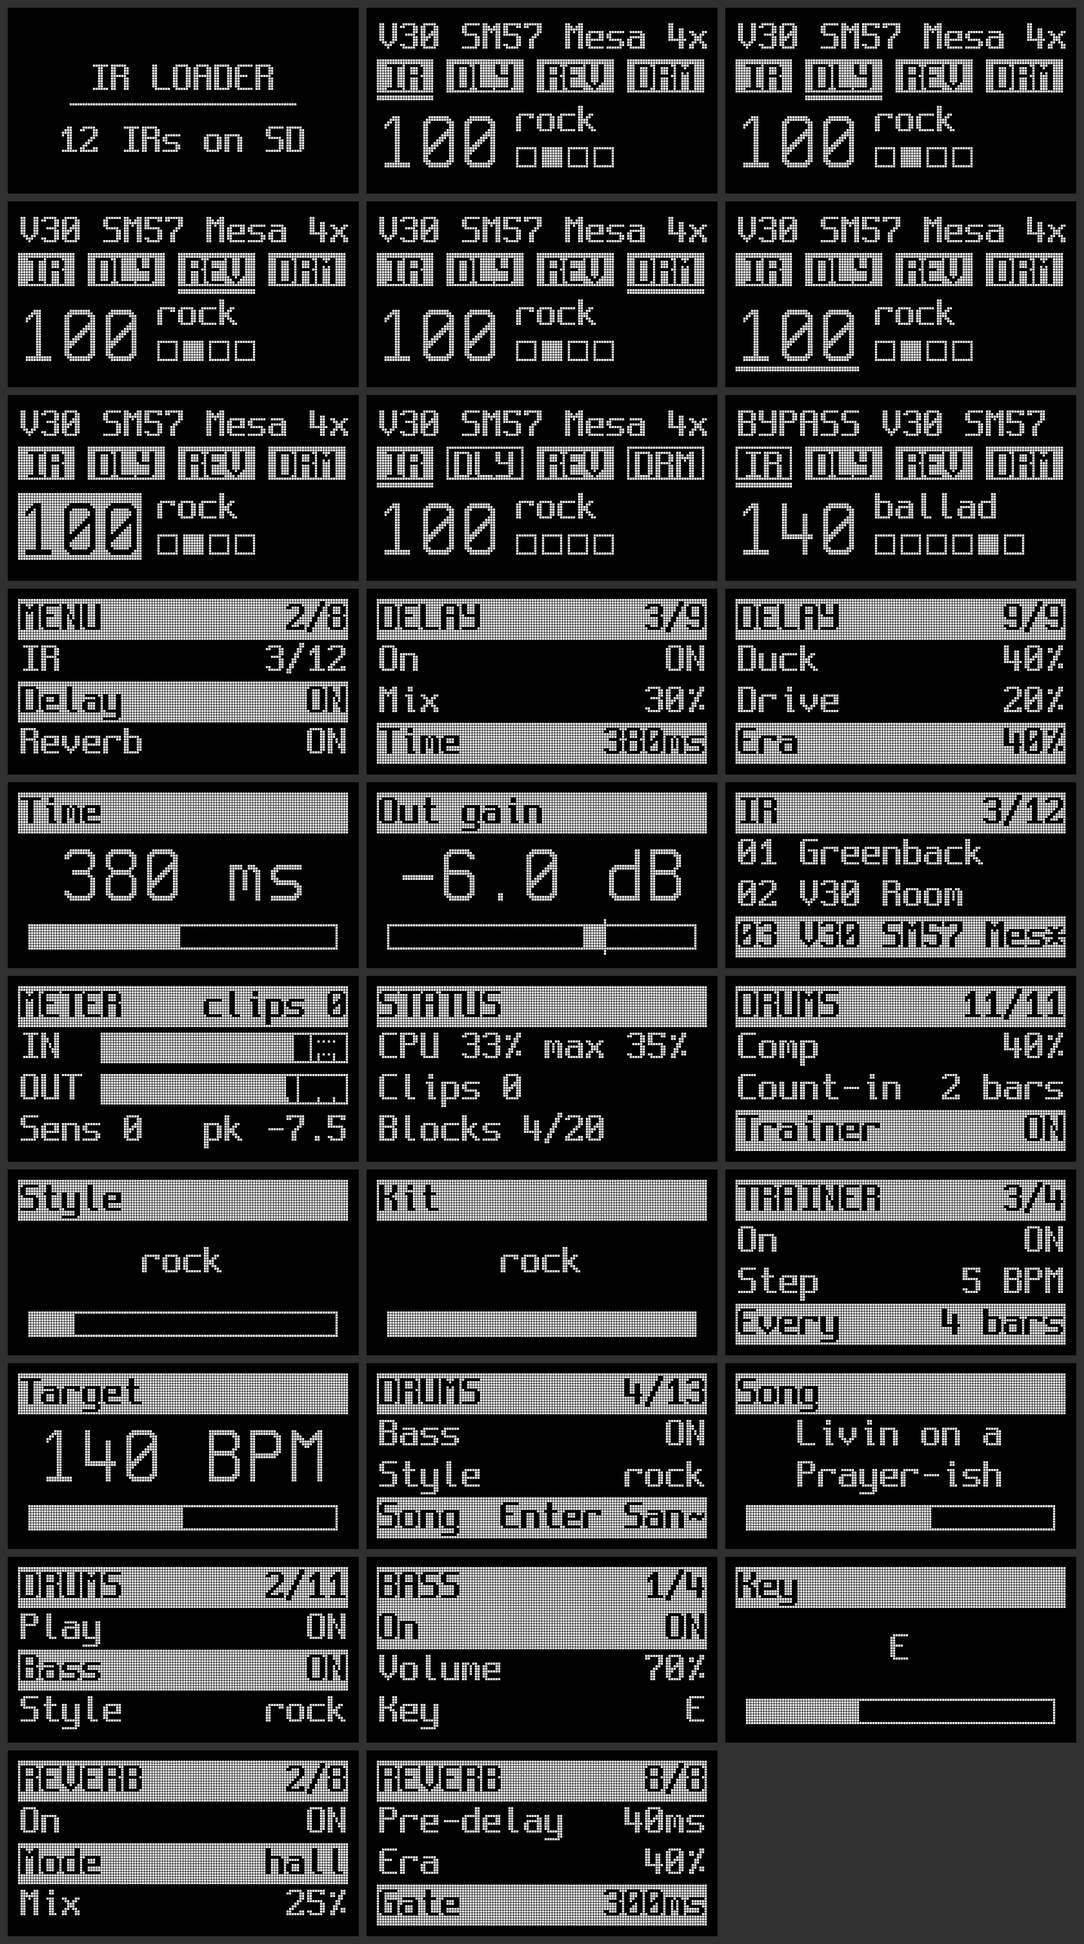
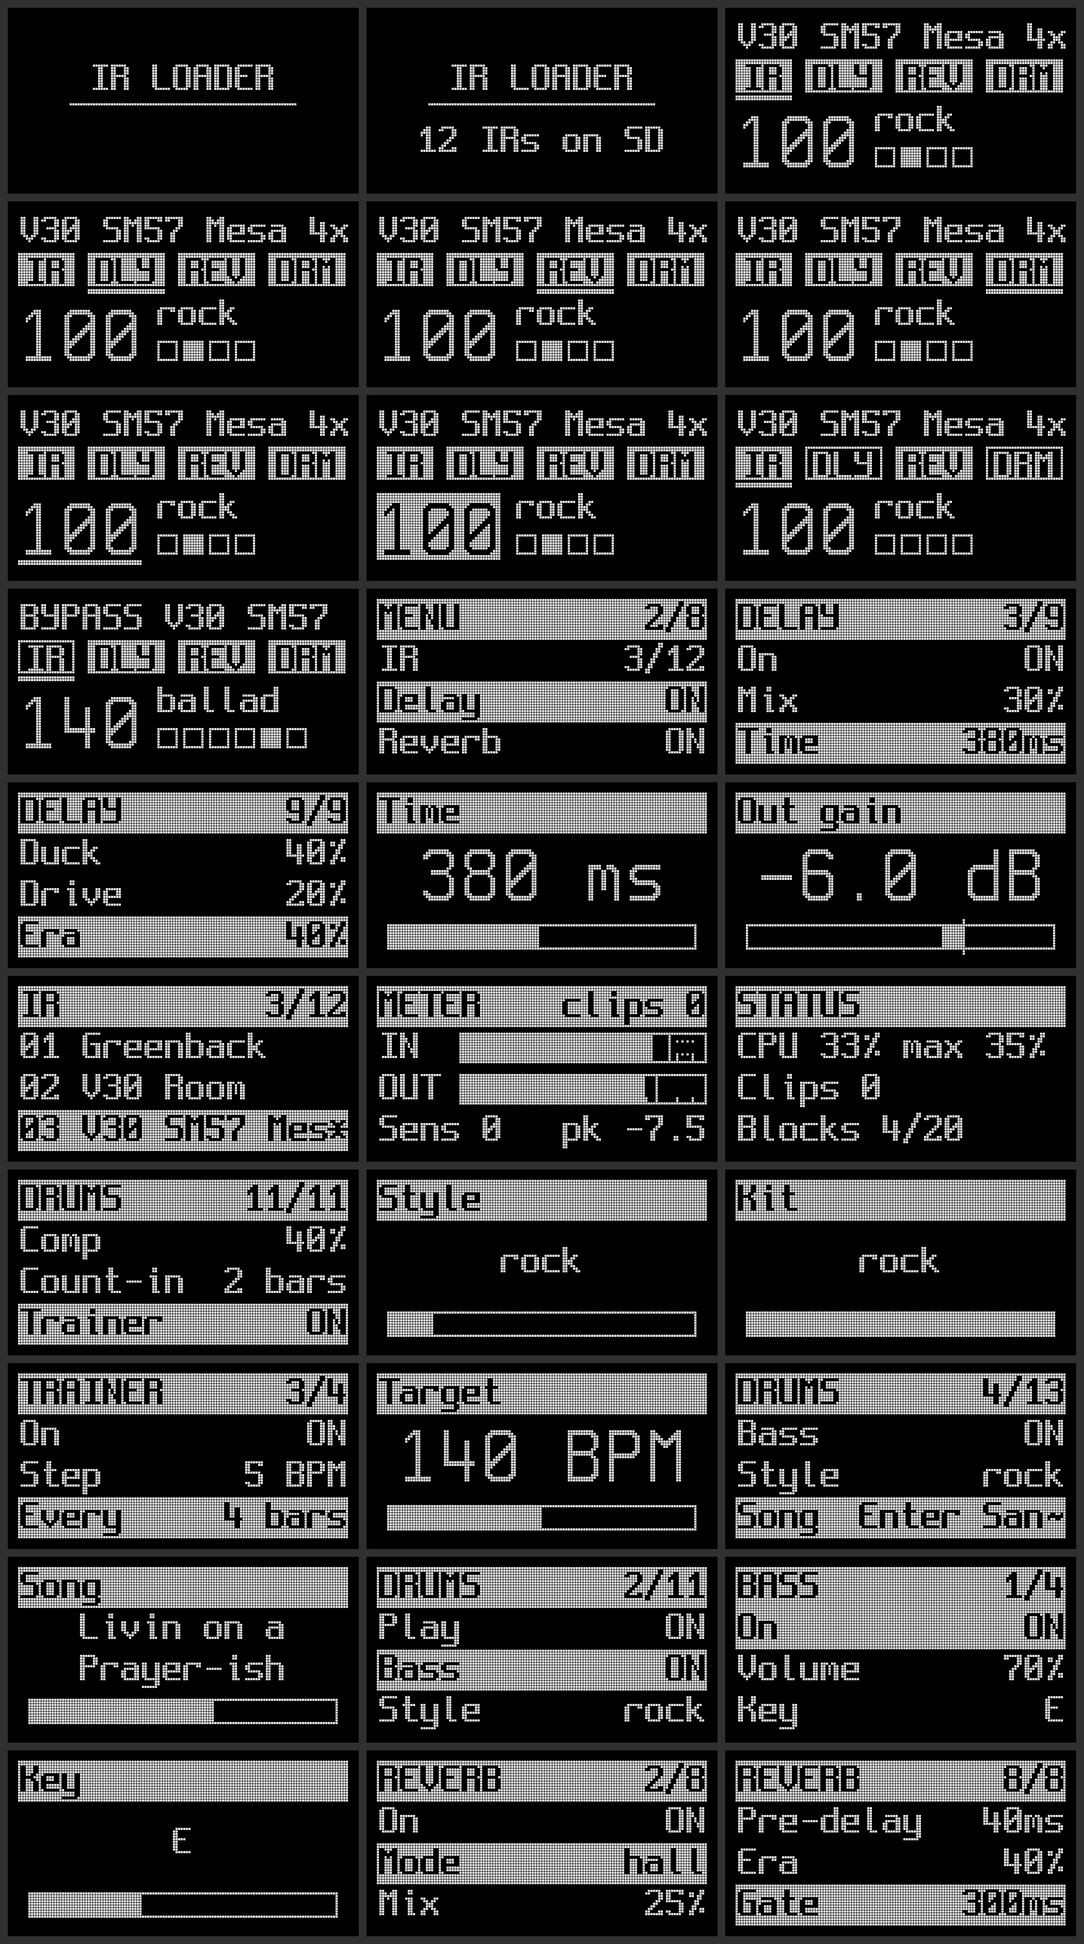
OLED on its own I2C bus (Wire1); splash first, no serial waits at boot
- The display moves to Wire1 (SCL1 16, SDA1 17) at 1 MHz (OLED_WIRE and
  OLED_I2C_HZ in config.h). A page takes ~1.3 ms instead of 3.3 ms, and
  the codec's bus is no longer shared.
- setup() shows the splash first, before the codec's 0.4 s power-up, and
  fills in the IR count once the SD card has been read
  (displayBootDone). The splash timer starts at power-on.
- No Serial.begin(): on the Teensy it waits up to 2 s for a monitor to
  open the port (0.75 s on a charger), on top of the 1.5 s wait that was
  in setup(). USB serial works without it.

Measured from a cold plug-in: setup() done at 0.99 s instead of 2.99 s.
The splash appears at ~0.4 s, the home screen at 1.5 s (was ~4.5 s).

diff --git a/src/main.cpp b/src/main.cpp
@@ -1,8 +1,8 @@
 // Teensy 4.0 + Audio Shield guitar IR loader
 //
-//   tube amp line out -> shield LINE IN (L) -> convolution -> ping-pong delay
-//                     -> plate reverb -> LINE OUT L/R + headphones
-//                     (32-bit float throughout)
+//   tube amp line out -> shield LINE IN (L) -> convolution -> studio 80s delay
+//                     -> 80s reverb -> LINE OUT L/R + headphones
+//                     (32-bit float throughout; drums and bass added after)
 //
 // Copy .wav impulse responses to the SD card (root or /IR folder). Any sample
 // rate, mono or stereo, 8/16/24/32-bit PCM or 32/64-bit float; files are
@@ -11,12 +11,14 @@
 // Control: USB serial (type "?" for help) and the OLED + encoder panel
 // (DISPLAY.md, pins in config.h).
 //
-//   AudioGraph  audio objects, codec, level/bypass/effect setters
+//   AudioGraph  audio objects and the codec
+//   Params      reading and changing any setting (the table: ParamDefs.cpp)
+//   Settings    the settings saved in EEPROM
 //   IRLibrary   SD card file list and IR loading
-//   Settings    EEPROM-backed settings
+//   DrumSongs   the drum songs, built-in and from the SD card
 //   SerialUI    serial commands and level meter
 //   Controls    the panel's encoder and keys
-//   Oled        SSD1306 driver on the codec's I2C bus
+//   Oled        SH1106 / SSD1306 driver on its own I2C bus
 //   DisplayUI   the panel: lib/oledui's screens and menu on the OLED
 #include <Arduino.h>
 
@@ -30,25 +32,27 @@
 #include "Settings.h"
 #include "config.h"
 
+
 void setup() {
   controlsBegin();
   loadSettings();
-
-  // Audio first: the passthrough starts immediately, even before the IR loads.
+  // The splash first (the display has its own I2C bus), then the audio: the
+  // passthrough starts there, even before the IR loads.
+  displayBegin();
   audioBegin();
 
-  Serial.begin(115200);
-  uint32_t t = millis();
-  while (!Serial && millis() - t < 1500) {}
-  Serial.printf("\nTeensy IR loader - block %d samples, max IR %d samples\n",
+  // No Serial.begin(): USB serial works without it on the Teensy, and it
+  // waits up to 2 s for a serial monitor to open the port (0.75 s on a USB
+  // charger). So this line only shows if one is already open; every state
+  // can be printed later (?, s).
+  Serial.printf("\nTeensy IR loader - block %d samples, max IR %d samples. Type ? for the commands.\n",
                 AUDIO_BLOCK_SAMPLES, IR_MAX_LENGTH);
 
   scanCard();
   loadStartupIR();
   // The drum song saved last time (an SD file may have gone: then none).
   if (getParam(ui::kDrumSong) && !selectDrumSong(getParam(ui::kDrumSong), true)) setParam(ui::kDrumSong, 0);
-  printHelp();
-  displayBegin();
+  displayBootDone();
 }
 
 void loop() {

diff --git a/src/Oled.cpp b/src/Oled.cpp
@@ -9,21 +9,21 @@ static int g_addr = -1;
 
 // Commands go after a 0x00 control byte, display data after 0x40.
 static bool command(const uint8_t* c, int n) {
-  Wire.beginTransmission(g_addr);
-  Wire.write(0x00);
-  Wire.write(c, n);
-  return Wire.endTransmission() == 0;
+  OLED_WIRE.beginTransmission(g_addr);
+  OLED_WIRE.write(0x00);
+  OLED_WIRE.write(c, n);
+  return OLED_WIRE.endTransmission() == 0;
 }
 
 static bool probe(int addr) {
-  Wire.beginTransmission(addr);
-  return Wire.endTransmission() == 0;
+  OLED_WIRE.beginTransmission(addr);
+  return OLED_WIRE.endTransmission() == 0;
 }
 
 bool oledBegin() {
   if (OLED_I2C_ADDR < 0) return false;
-  // The SGTL5000 is rated for 400 kHz too; Wire starts at 100 kHz.
-  Wire.setClock(400000);
+  OLED_WIRE.begin();
+  OLED_WIRE.setClock(OLED_I2C_HZ);
   if (probe(OLED_I2C_ADDR)) g_addr = OLED_I2C_ADDR;
   else if (probe(0x3D)) g_addr = 0x3D;
   else return false;
@@ -78,10 +78,10 @@ bool oledBegin() {
   for (int p = 0; p < 8; p++) {
     const uint8_t addr[] = {(uint8_t)(0xB0 | p), 0x00, 0x10};
     command(addr, sizeof(addr));
-    Wire.beginTransmission(g_addr);
-    Wire.write(0x40);
-    Wire.write(zeros, OLED_SH1106 ? 132 : 128);
-    Wire.endTransmission();
+    OLED_WIRE.beginTransmission(g_addr);
+    OLED_WIRE.write(0x40);
+    OLED_WIRE.write(zeros, OLED_SH1106 ? 132 : 128);
+    OLED_WIRE.endTransmission();
   }
   // The SH1106 datasheet's power-on sequence wants 100 ms between switching
   // the DC-DC converter on and the display on.
@@ -101,9 +101,9 @@ void oledSendPage(int p, const uint8_t* data) {
   const uint8_t addr[] = {(uint8_t)(0xB0 | p), (uint8_t)(col & 0x0F), (uint8_t)(0x10 | (col >> 4))};
   command(addr, sizeof(addr));
   // 1 control byte + 128 data bytes fit the Teensy 4 Wire buffer (136).
-  Wire.beginTransmission(g_addr);
-  Wire.write(0x40);
-  Wire.write(data, 128);
-  Wire.endTransmission();
+  OLED_WIRE.beginTransmission(g_addr);
+  OLED_WIRE.write(0x40);
+  OLED_WIRE.write(data, 128);
+  OLED_WIRE.endTransmission();
 }
 

diff --git a/include/config.h b/include/config.h
@@ -62,10 +62,13 @@
 // ---------------------------------------------------------------------------
 #define SDCARD_CS_PIN 10  // SD slot on the Teensy 4 Audio Shield (Rev D)
 
-// OLED + encoder module (see DISPLAY.md): a 128x64 SH1106 or SSD1306 on the
-// codec's I2C bus (pins 18/19); the encoder and the keys switch to GND
-// (internal pull-ups). Other free pins with the audio shield fitted: 0, 1,
-// 14, 16, 17, 22 (15 is the shield's volume-pot pad, 6 its memory-chip CS).
+// OLED + encoder module (see DISPLAY.md): a 128x64 SH1106 or SSD1306 on its
+// own I2C bus, Wire1 (SCL1 pin 16, SDA1 pin 17), apart from the codec's
+// (Wire, pins 18/19); the encoder and the keys switch to GND (internal
+// pull-ups). Other free pins with the audio shield fitted: 0, 1, 14, 22 (15
+// is the shield's volume-pot pad, 6 its memory-chip CS).
+#define OLED_WIRE Wire1          // Wire to share the codec's bus (pins 18/19)
+#define OLED_I2C_HZ 1000000      // 400000 if the picture glitches (the SH1106 is rated for 400 kHz)
 #define OLED_I2C_ADDR 0x3C       // 0x3D on some modules (tried too); -1 disables the display
 #define OLED_SH1106 1            // 1 = SH1106 (1.3" modules), 0 = SSD1306 (0.96")
 // SH1106 only: its RAM is 132 columns wide; the first one the glass shows.

diff --git a/src/Oled.h b/src/Oled.h
@@ -1,14 +1,16 @@
 // Oled.h - minimal SH1106 / SSD1306 128x64 driver (OLED_SH1106 in config.h)
-// on the codec's I2C bus (Wire, pins 18/19, 400 kHz). It holds no frame
-// buffer: the UI draws into a ui::Canvas and sends it a page (8 pixel rows x
-// 128 columns) at a time.
+// on its own I2C bus (OLED_WIRE, Wire1 on pins 16/17), apart from the
+// codec's. It holds no frame buffer: the UI draws into a ui::Canvas and sends
+// it a page (8 pixel rows x 128 columns) at a time.
 #pragma once
 
 #include <stdint.h>
 
-// Call after audioBegin() (the codec starts Wire). Finds the display at
-// OLED_I2C_ADDR or 0x3D and initializes it, blank. False: no display.
+// Starts the bus, finds the display at OLED_I2C_ADDR or 0x3D and initializes
+// it, blank. Needs nothing else running, so it can come first in setup().
+// False: no display.
 bool oledBegin();
 bool oledPresent();
-// Sends page p (0..7): 128 column bytes, bit 0 = top pixel. About 3.3 ms.
+// Sends page p (0..7): 128 column bytes, bit 0 = top pixel. About 1.3 ms at
+// 1 MHz.
 void oledSendPage(int p, const uint8_t* data);

diff --git a/src/DisplayUI.cpp b/src/DisplayUI.cpp
@@ -156,17 +156,27 @@ static bool sendOnePage() {
   return false;
 }
 
+static void showSplash() {
+  fillModel(millis());
+  ui::drawSplash(g_canvas, g_model);
+  while (sendOnePage()) {}
+}
+
 void displayBegin() {
-  if (!oledBegin()) {
+  if (!oledBegin()) return;  // reported by displayBootDone(), once Serial is up
+  memset(g_shown, 0, sizeof(g_shown));  // oledBegin() blanked the display
+  g_splashUntil = millis() + kSplashMs;
+  g_model.booting = true;
+  showSplash();
+}
+
+void displayBootDone() {
+  if (!oledPresent()) {
     Serial.println("No OLED found (I2C 0x3C / 0x3D).");
     return;
   }
-  memset(g_shown, 0, sizeof(g_shown));  // oledBegin() blanked the display
-  const uint32_t now = millis();
-  fillModel(now);
-  ui::drawSplash(g_canvas, g_model);
-  while (sendOnePage()) {}
-  g_splashUntil = now + kSplashMs;
+  g_model.booting = false;
+  showSplash();
 }
 
 #if CONTROLS_DEBUG

diff --git a/src/DisplayUI.h b/src/DisplayUI.h
@@ -4,9 +4,12 @@
 // Settings change through the AudioGraph setters, like over serial.
 #pragma once
 
-// Call at the end of setup() (after audioBegin() and the SD scan): shows
-// the splash. Without a display the panel stays off.
+// Call first in setup() (after loadSettings()): shows the splash at once.
+// Without a display the panel stays off.
 void displayBegin();
+// Call at the end of setup(), after the SD scan: the splash shows the IR
+// count. The home screen follows once the splash has been up 1.5 s.
+void displayBootDone();
 // Call every loop() pass: controls, redraws, and at most one page sent
 // (about 3.3 ms of I2C).
 void serviceDisplay();

diff --git a/lib/oledui/src/Screens.cpp b/lib/oledui/src/Screens.cpp
@@ -28,6 +28,7 @@ void drawSplash(Canvas& c, const UiModel& m) {
   c.clear();
   c.textCenter(2, "IR LOADER");
   c.hline(20, Canvas::kW - 21, 33);
+  if (m.booting) return;
   if (!m.sdOk) snprintf(buf, sizeof(buf), "%s", "No SD card");
   else snprintf(buf, sizeof(buf), "%d IRs on SD", m.irCount);
   c.textCenter(5, buf);

diff --git a/test/host/render_ui.cpp b/test/host/render_ui.cpp
@@ -82,6 +82,10 @@ int main(int argc, char** argv) {
   FakeHost host;
   ui::Menu menu(ui::menuPages(), host);
 
+  m.booting = true;  // the first frame, before the SD card is read
+  ui::drawSplash(c, m);
+  snap("01_splash_boot");
+  m.booting = false;
   ui::drawSplash(c, m);
   snap("01_splash");
 

diff --git a/lib/oledui/src/Screens.h b/lib/oledui/src/Screens.h
@@ -11,6 +11,7 @@ namespace ui {
 
 struct UiModel {
   uint32_t nowMs = 0;
+  bool booting = false;  // the SD card not read yet (the splash shows no count)
 
   // IR files.
   bool sdOk = false;

diff --git a/DISPLAY.md b/DISPLAY.md
@@ -6,7 +6,7 @@ The UI is written and tested on the PC: `lib/oledui` draws every screen and runs
 
 ## Summary
 
-- **Display:** 128x64 SH1106 (1.3") or SSD1306 (0.96") on I2C, sharing the bus with the audio codec (pins 18/19). No extra bus is needed. `OLED_SH1106` in `config.h` picks the controller.
+- **Display:** 128x64 SH1106 (1.3") or SSD1306 (0.96") on its own I2C bus, `Wire1` (pins 16/17, 1 MHz), apart from the audio codec's (pins 18/19). `OLED_SH1106` in `config.h` picks the controller.
 - **Inputs:** the encoder and the two buttons reuse the five wires of today's buttons (pins 2, 3, 4, 5, 9).
 - **Software:**
   - A small SH1106 / SSD1306 driver of our own, running from flash. It sends only the 128-byte pages that changed.
@@ -24,8 +24,8 @@ Module pin labels vary between sellers. Common names are given in brackets.
 |---|---|---|---|
 | VCC | **3.3 V** | | **Never 5 V.** The module's pull-ups would put 5 V on the Teensy pins, which are not 5 V tolerant. |
 | GND | GND | | |
-| SDA | **18** (SDA0) | | Shared with the SGTL5000 codec (address 0x0A). |
-| SCL | **19** (SCL0) | | Shared with the codec. |
+| SDA | **17** (SDA1) | | The display's own bus, `Wire1`. |
+| SCL | **16** (SCL1) | | |
 | Encoder A (TRA, ENCA, CLK) | **2** | next button | |
 | Encoder B (TRB, ENCB, DT) | **3** | prev button | |
 | Encoder push (PSH, SW, ENCSW) | **4** | bypass button | |
@@ -37,8 +37,8 @@ Module pin labels vary between sellers. Common names are given in brackets.
   ┌──────────────────────────┐
   │ VCC ─────────────────────┼──────────────► 3.3V
   │ GND ─────────────────────┼──────────────► GND
-  │ SDA ─────────────────────┼──────────────► 18  (shared with codec)
-  │ SCL ─────────────────────┼──────────────► 19  (shared with codec)
+  │ SDA ─────────────────────┼──────────────► 17  (SDA1)
+  │ SCL ─────────────────────┼──────────────► 16  (SCL1)
   │ TRA  (encoder A) ────────┼──────────────► 2
   │ TRB  (encoder B) ────────┼──────────────► 3
   │ PSH  (encoder push) ─────┼──────────────► 4
@@ -50,19 +50,22 @@ Module pin labels vary between sellers. Common names are given in brackets.
 Notes:
 
 - **I2C address:** usually 0x3C. Some modules are set to 0x3D with a resistor on the back. It is set in `config.h`.
-- **Pull-ups:** the OLED module and the Audio Shield both have I2C pull-ups. In parallel they are still within spec, so nothing needs removing.
+- **Pull-ups:** the module's own I2C pull-ups serve `Wire1`. If the picture glitches at 1 MHz (weak pull-ups round the edges), set `OLED_I2C_HZ` to 400000.
 - **Encoder direction:** on our module, clockwise counts down, so `config.h` has `ENC_REVERSE 1`. Set it to 0 if clockwise moves the cursor left on yours.
 - **Encoder and buttons:** the firmware uses the Teensy's internal pull-ups (`INPUT_PULLUP`), with the contacts switching to GND. If the module has its own pull-ups to VCC, that is fine at 3.3 V.
 - **Encoder bounce:** if the module has no RC filter on the encoder, a 100 nF capacitor from A and from B to GND helps. The state-table decoder tolerates bounce anyway, so try without first.
-- **Physical access:** with the shield stacked, pins 18/19 are reachable on the shield's header or on the Teensy's top header pins.
-- **Other free pins**, if needed later: 0, 1, 14, 16, 17, 22. 15 is the shield's volume-pot pad and 6 its memory-chip CS.
+- **Physical access:** with the shield stacked, pins 16/17 are reachable on the shield's header or on the Teensy's top header pins.
+- **Other free pins**, if needed later: 0, 1, 14, 22. 15 is the shield's volume-pot pad and 6 its memory-chip CS.
 
-### Why share the codec's I2C bus
+### Why the display has its own bus
 
-- The codec uses address 0x0A and the OLED 0x3C, so they don't collide.
-- All codec writes (`setLineInLevel` etc.) and all display writes run from `loop()`, never from an interrupt. They can't interrupt each other.
-- The SGTL5000 is rated for 400 kHz, so the bus runs at 400 kHz. `Wire` defaults to 100 kHz, so the display driver calls `Wire.setClock(400000)` after `audioBegin()`.
-- **Alternative:** `Wire1` on pins 16/17 gives the display its own bus, which can run at 1 MHz. This is only worth doing if the shared bus ever causes trouble.
+Until 2026-10-29 the display shared the codec's bus (`Wire`, pins 18/19, 400 kHz). That worked: all codec and display writes run from `loop()`, never from an interrupt. Its own bus (`OLED_WIRE` in `config.h`) brings:
+
+- **A faster screen:** 1 MHz instead of the codec's 400 kHz, so a page takes about 1.3 ms instead of 3.3 ms, and a full redraw about 11 ms instead of 26.
+- **A faster boot:** the display needs nothing else, so the splash shows first, before the codec's 0.4 s power-up.
+- **A codec bus that's never shared:** codec writes don't wait behind page sends, and the codec stays at its library's own clock.
+
+To go back to the shared bus, set `OLED_WIRE` to `Wire` and `OLED_I2C_HZ` to 400000, and wire SDA/SCL to 18/19.
 
 ## Controls
 
@@ -306,7 +309,7 @@ Why our own driver: see [RAM1 strategy](#ram1-strategy). It is about 70 lines.
 - **Init:** probes `OLED_I2C_ADDR`, then 0x3D, and sends the 128x64 init sequence for the controller `OLED_SH1106` selects: the SSD1306's charge pump and page addressing mode, or the SH1106's DC-DC converter (it only has page addressing). It then blanks the whole display RAM (132 columns on the SH1106), so no power-on garbage shows. With no display found, the panel stays off and the firmware runs as before.
 - **SH1106 column offset:** its RAM is 132 columns wide and the glass shows 128 of them, starting at `OLED_COL_OFFSET`. That is 2 on many modules but 0 on ours. If it is wrong, the line ends are cut off on one side and stray pixels show on the other.
 - **"SH1106" modules with an SSD1306-compatible chip:** ours is one (hence offset 0). It stayed black after power-up until the SSD1306 charge-pump command (`8D 14`) was added to the SH1106 init; a real SH1106 ignores it. This only shows from cold: the setting survives a warm restart (a reflash), so a module once started by the SSD1306 init works until it is unplugged. The init also waits 100 ms between the converter and display-on, as the SH1106 datasheet asks.
-- **Sending:** `oledSendPage(p, data)` sends one page: a 3-byte address command, then 1 control byte + 128 data bytes. The Teensy 4 `Wire` buffer is 136 bytes, so a whole page fits in one transaction. A page takes about 3.3 ms at 400 kHz.
+- **Sending:** `oledSendPage(p, data)` sends one page: a 3-byte address command, then 1 control byte + 128 data bytes. The Teensy 4 `Wire` buffer is 136 bytes, so a whole page fits in one transaction. A page takes about 1.3 ms at 1 MHz.
 - **Drawing** is `ui::Canvas` (`lib/oledui`): the frame buffer, text in the two fonts, lines, boxes and inversion.
 - **Fonts:** Spleen 8x16 and 16x32 by Frederic Cambus (BSD-2-Clause), 2.2.0. `tools/make_font.py` converts the BDF files in `fonts/spleen/` into `lib/oledui/src/Fonts.cpp` (7.6 KB in flash, ASCII 32..126) in the display's page layout, so a glyph's columns are copied straight into the frame buffer. Text rows start at x = 1: the glyphs' blank column is on the right, and this keeps inverted rows off the left edge.
 
@@ -337,8 +340,8 @@ Why our own driver: see [RAM1 strategy](#ram1-strategy). It is about 70 lines.
   - A second 1 KB buffer (`DMAMEM`) holds what the OLED shows. `serviceDisplay()` sends **at most one page per call, and only a page whose bytes differ** from it, round-robin so busy rows (the Meter screen's bars) can't starve the others.
   - So a still home screen sends nothing (only the beat row while the drums play), and changes made over serial show on the screen within a frame, with no coupling between the two UIs.
 - **Serial echo:** `setParam()` prints a confirmation on Serial at every encoder step, for example `Delay time 385ms`. That is harmless. If it gets noisy, add a `quiet` flag later.
-- **Loop budget:** `serviceDisplay()` sends at most one page (about 3.3 ms) per call. Drawing a screen runs from flash and takes much less.
-- **Splash:** shown for 1.5 s at the end of `setup()`, after the SD scan, so it can show the IR count. Input is ignored meanwhile.
+- **Loop budget:** `serviceDisplay()` sends at most one page (about 1.3 ms) per call. Drawing a screen runs from flash and takes much less.
+- **Splash:** the first thing `setup()` does, before the audio starts: the title, then the IR count once the SD card has been read (`displayBootDone()`). It stays up for 1.5 s from power-on, overlapping the rest of `setup()` (about 1 s from cold), and input is ignored meanwhile.
 
 ### main.cpp
 
@@ -346,9 +349,11 @@ Why our own driver: see [RAM1 strategy](#ram1-strategy). It is about 70 lines.
 void setup() {
   controlsBegin();
   loadSettings();
-  audioBegin();
-  ...                  // serial, SD scan, startup IR, drum song
-  displayBegin();      // after audioBegin() (Wire is up; sets 400 kHz) and the scan; shows the splash
+  displayBegin();      // the splash at once (the display's own bus)
+  audioBegin();        // codec, effects, the saved settings
+  Serial.begin(115200);  // no waiting for a monitor
+  ...                  // SD scan, startup IR, drum song
+  displayBootDone();   // the splash shows the IR count
 }
 
 void loop() {
@@ -429,4 +434,4 @@ The audio path stays in ITCM: `AudioGraph` with the convolver and effects, the d
 
 ## Open choices
 
-- **Bus:** shared `Wire` (18/19, 400 kHz) for now. A separate `Wire1` (16/17, 1 MHz) would be a rewiring and a one-line change in `Oled.cpp`, only worth it if the shared bus ever causes trouble.
+- **Bus:** `Wire1` (16/17, 1 MHz) since 2026-10-29; see [Why the display has its own bus](#why-the-display-has-its-own-bus).
